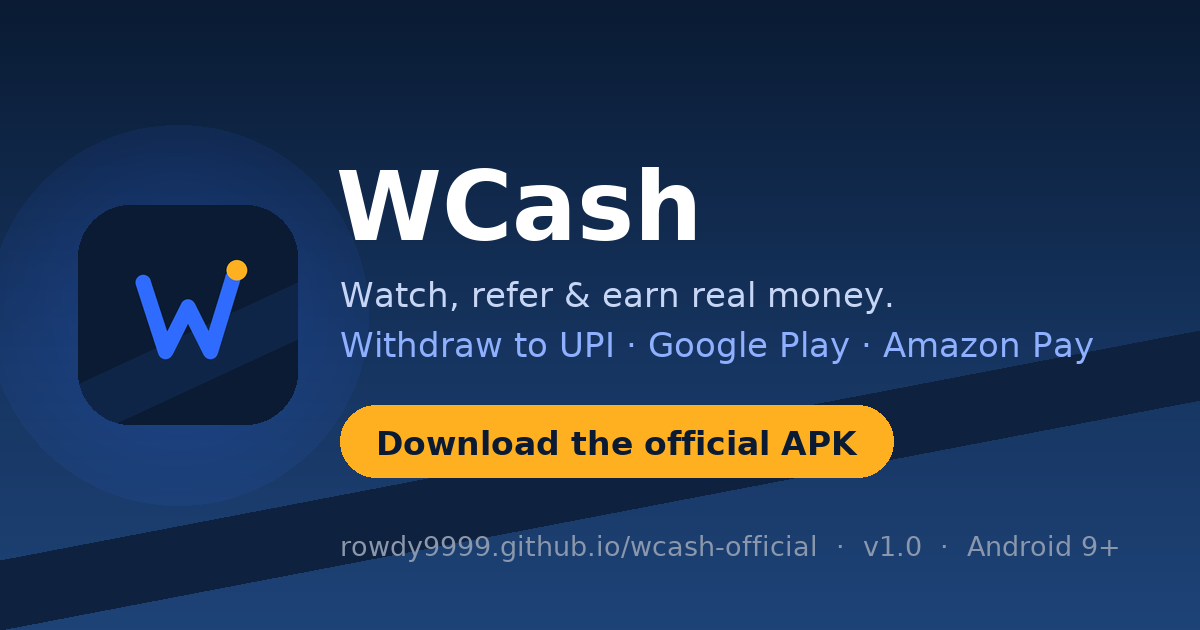
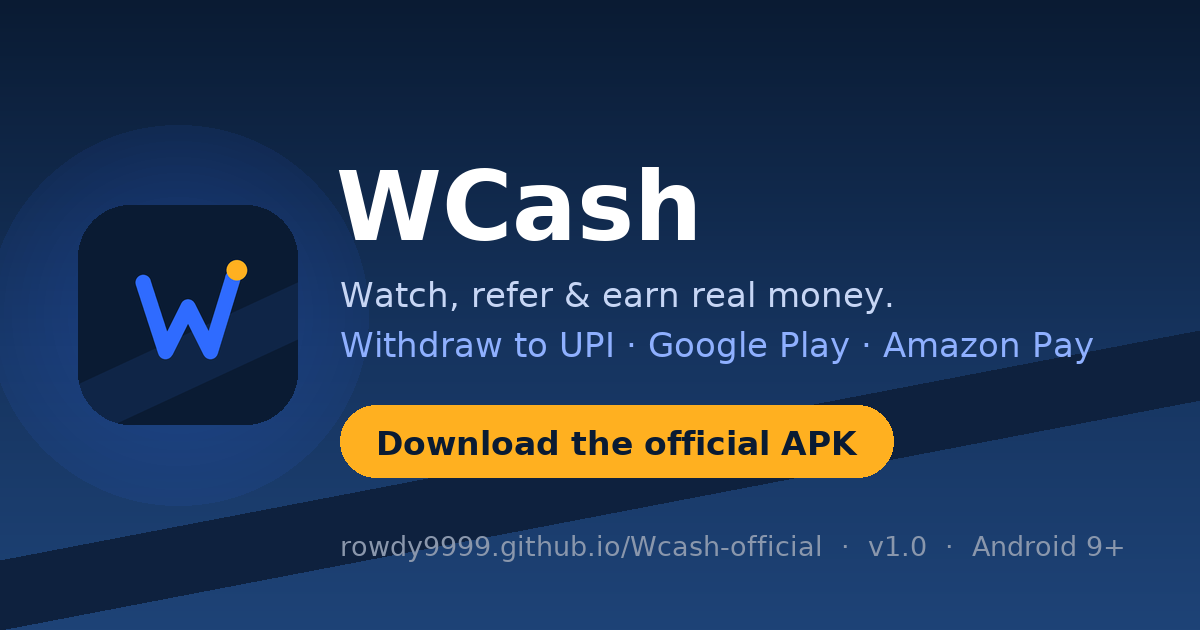
Fix URL case for GitHub Pages (Wcash-official)

Changed region(s): [[0.5242, 0.8444, 0.7708, 0.9048], [0.8017, 0.8444, 0.925, 0.9048]]

diff --git a/index.html b/index.html
@@ -6,20 +6,20 @@
   <meta name="theme-color" content="#0A1B33">
   <title>WCash — Official APK Download for Android | Watch, Refer &amp; Earn</title>
   <meta name="description" content="Download the official WCash Android app — watch videos, complete tasks and referrals, and withdraw to UPI, Google Play or Amazon Pay from just ₹20. Free, safe, direct APK.">
-  <link rel="canonical" href="https://rowdy9999.github.io/wcash-official/">
+  <link rel="canonical" href="https://rowdy9999.github.io/Wcash-official/">
 
   <meta property="og:type" content="website">
   <meta property="og:site_name" content="WCash">
   <meta property="og:title" content="WCash — Official APK Download for Android">
   <meta property="og:description" content="Watch, refer &amp; earn real money. Withdraw to UPI, Google Play &amp; Amazon Pay from ₹20. Free official APK.">
-  <meta property="og:url" content="https://rowdy9999.github.io/wcash-official/">
-  <meta property="og:image" content="https://rowdy9999.github.io/wcash-official/assets/og.png">
+  <meta property="og:url" content="https://rowdy9999.github.io/Wcash-official/">
+  <meta property="og:image" content="https://rowdy9999.github.io/Wcash-official/assets/og.png">
   <meta property="og:image:width" content="1200">
   <meta property="og:image:height" content="630">
   <meta name="twitter:card" content="summary_large_image">
   <meta name="twitter:title" content="WCash — Official APK Download for Android">
   <meta name="twitter:description" content="Watch, refer &amp; earn real money. Withdraw to UPI, Google Play &amp; Amazon Pay from ₹20.">
-  <meta name="twitter:image" content="https://rowdy9999.github.io/wcash-official/assets/og.png">
+  <meta name="twitter:image" content="https://rowdy9999.github.io/Wcash-official/assets/og.png">
 
   <link rel="icon" type="image/svg+xml" href="assets/favicon.svg">
   <link rel="apple-touch-icon" href="assets/apple-touch-icon.png">
@@ -32,12 +32,12 @@
     "@type": "SoftwareApplication",
     "name": "WCash",
     "description": "Free Android app — watch videos, complete offers, visit sites and refer friends to earn. Withdraw to UPI, Google Play redeem codes or Amazon Pay gift cards.",
-    "url": "https://rowdy9999.github.io/wcash-official/",
-    "image": "https://rowdy9999.github.io/wcash-official/assets/og.png",
+    "url": "https://rowdy9999.github.io/Wcash-official/",
+    "image": "https://rowdy9999.github.io/Wcash-official/assets/og.png",
     "operatingSystem": "Android 9.0+",
     "applicationCategory": "FinanceApplication",
     "softwareVersion": "1.0",
-    "downloadUrl": "https://github.com/Rowdy9999/wcash-official/releases/latest/download/WCash.apk",
+    "downloadUrl": "https://github.com/Rowdy9999/Wcash-official/releases/latest/download/WCash.apk",
     "offers": { "@type": "Offer", "price": "0", "priceCurrency": "INR" },
     "publisher": { "@type": "Organization", "name": "WCash" }
   }
@@ -58,7 +58,7 @@
         <a href="#install">Install</a>
         <a href="#faq">FAQ</a>
       </nav>
-      <a class="btn btn-gold btn-sm" href="https://github.com/Rowdy9999/wcash-official/releases/latest/download/WCash.apk">
+      <a class="btn btn-gold btn-sm" href="https://github.com/Rowdy9999/Wcash-official/releases/latest/download/WCash.apk">
         <svg class="ic" viewBox="0 0 24 24" aria-hidden="true"><path d="M21 15v4a2 2 0 0 1-2 2H5a2 2 0 0 1-2-2v-4"/><polyline points="7 10 12 15 17 10"/><line x1="12" y1="15" x2="12" y2="3"/></svg>
         Download
       </a>
@@ -83,7 +83,7 @@
           <span class="chip">Free</span>
         </div>
         <div class="cta-row">
-          <a class="btn btn-gold btn-lg" href="https://github.com/Rowdy9999/wcash-official/releases/latest/download/WCash.apk">
+          <a class="btn btn-gold btn-lg" href="https://github.com/Rowdy9999/Wcash-official/releases/latest/download/WCash.apk">
             <svg class="ic" viewBox="0 0 24 24" aria-hidden="true"><path d="M21 15v4a2 2 0 0 1-2 2H5a2 2 0 0 1-2-2v-4"/><polyline points="7 10 12 15 17 10"/><line x1="12" y1="15" x2="12" y2="3"/></svg>
             Download APK — v1.0
           </a>
@@ -258,7 +258,7 @@
               <p>Create your free account and start earning. Updates later? Just install the newest APK over the old one — your balance stays.</p>
             </div>
           </div>
-          <a class="btn btn-gold btn-lg" href="https://github.com/Rowdy9999/wcash-official/releases/latest/download/WCash.apk">
+          <a class="btn btn-gold btn-lg" href="https://github.com/Rowdy9999/Wcash-official/releases/latest/download/WCash.apk">
             <svg class="ic" viewBox="0 0 24 24" aria-hidden="true"><path d="M21 15v4a2 2 0 0 1-2 2H5a2 2 0 0 1-2-2v-4"/><polyline points="7 10 12 15 17 10"/><line x1="12" y1="15" x2="12" y2="3"/></svg>
             Download APK — v1.0
           </a>
@@ -328,7 +328,7 @@
         <h2>Ready to start earning?</h2>
         <p>Download the official WCash APK — free, verified, under a minute to install.</p>
       </div>
-      <a class="btn btn-gold btn-lg" href="https://github.com/Rowdy9999/wcash-official/releases/latest/download/WCash.apk">
+      <a class="btn btn-gold btn-lg" href="https://github.com/Rowdy9999/Wcash-official/releases/latest/download/WCash.apk">
         <svg class="ic" viewBox="0 0 24 24" aria-hidden="true"><path d="M21 15v4a2 2 0 0 1-2 2H5a2 2 0 0 1-2-2v-4"/><polyline points="7 10 12 15 17 10"/><line x1="12" y1="15" x2="12" y2="3"/></svg>
         Download APK
       </a>
@@ -360,7 +360,7 @@
       </div>
       <div class="footer-col">
         <h4>Download</h4>
-        <a href="https://github.com/Rowdy9999/wcash-official/releases/latest/download/WCash.apk">Latest APK (v1.0)</a>
+        <a href="https://github.com/Rowdy9999/Wcash-official/releases/latest/download/WCash.apk">Latest APK (v1.0)</a>
         <span class="footer-meta">Android 9.0+ · 56 MB · Free</span>
       </div>
     </div>
